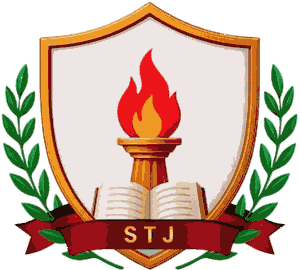
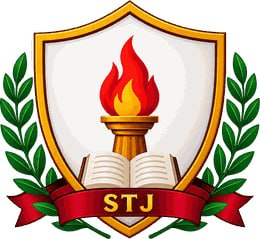
Nueva versión de la calculadora: cierre 2026-2, historial por periodo, overlay del ponderado y escudo STJ

diff --git a/index.html b/index.html
@@ -45,10 +45,7 @@ button{font-family:inherit;cursor:pointer}
 .hero-grid{display:grid;gap:26px;position:relative;z-index:1}
 .crest{display:flex;align-items:center;gap:14px}
 .crest-img{position:relative;width:92px;flex-shrink:0}
-.crest-img::before{ /* luz de la antorcha detrás del escudo */
-  content:"";position:absolute;left:50%;top:44%;width:190%;aspect-ratio:1;transform:translate(-50%,-50%);
-  background:radial-gradient(circle, rgba(255,178,36,.34) 0%, rgba(212,151,60,.12) 38%, transparent 66%);pointer-events:none}
-.crest-img img{position:relative;width:100%;height:auto;display:block;filter:drop-shadow(0 8px 18px rgba(0,0,0,.35))}
+.crest-img img{position:relative;width:100%;height:auto;display:block;filter:drop-shadow(0 6px 14px rgba(0,0,0,.28))}
 .crest-txt{font-size:14px;line-height:1.3;color:rgba(255,255,255,.78)}
 .crest-txt b{display:block;color:#fff;font-size:16px;font-weight:700}
 .crest-txt i{display:block;width:44px;height:3px;border-radius:2px;background:linear-gradient(90deg,var(--oro),var(--cinta));margin-top:8px}
@@ -316,17 +313,24 @@ footer{background:var(--palma-dk);color:rgba(255,255,255,.8);margin-top:56px;pad
 }
 /* ================= ESCRITORIO ================= */
 @media (min-width:960px){
-  .hero{padding:40px 0 72px}
-  .hero::after{content:"";position:absolute;left:-180px;top:-200px;width:620px;height:620px;border-radius:50%;
-    background:radial-gradient(circle, rgba(255,178,36,.10), transparent 62%);pointer-events:none}
-  .hero-grid{grid-template-columns:1.05fr 1fr;gap:56px;align-items:start}
-  .crest-img{width:150px}
+  .wrap{max-width:1240px}
+  .hero{padding:56px 0 64px}
+  .hero-grid{grid-template-columns:minmax(0,1fr) minmax(0,.92fr);gap:72px;align-items:center}
+  .crest{gap:18px}
+  .crest-img{width:120px}
   .crest-txt{font-size:15px}
-  .crest-txt b{font-size:17px}
-  h1{margin-top:28px}
+  .crest-txt b{font-size:18px}
+  h1{margin-top:30px;font-size:clamp(54px,5.4vw,76px)}
   .hero-copy .sub{font-size:19px}
   .hero-links{margin-top:30px}
-  .panel{padding:28px}
+  .panel{padding:28px 30px 26px}
+  /* en pantalla ancha: etiqueta, palanca y número en una sola fila */
+  .area{grid-template-columns:auto minmax(0,1fr) 76px;gap:0 20px;padding:9px 0}
+  .area label{grid-column:1;grid-row:1;width:11.5em;white-space:nowrap}
+  .area input[type=range]{grid-column:2;grid-row:1}
+  .area input[type=number]{grid-column:3;grid-row:1;height:44px;font-size:20px}
+  .scale{display:none}
+  .actions{margin-top:20px}
   #resultados{padding-top:56px}
   .prog-head{grid-template-columns:minmax(0,1.25fr) minmax(180px,1fr) 140px 20px;gap:22px;padding:16px 20px}
   .ruler{grid-column:auto;grid-row:auto}
@@ -359,7 +363,7 @@ footer{background:var(--palma-dk);color:rgba(255,255,255,.8);margin-top:56px;pad
   <div class="wrap hero-grid">
     <div class="hero-copy">
       <div class="crest">
-        <div class="crest-img"><img src="escudo-stj.png" width="320" height="288" alt="Escudo de la I. E. Santa Teresa de Jesús"></div>
+        <div class="crest-img"><img src="escudo-stj.png" width="260" height="239" alt="Escudo de la I. E. Santa Teresa de Jesús"></div>
         <p class="crest-txt"><b>I. E. Santa Teresa de Jesús</b>Área de Ciencias Sociales<i></i></p>
       </div>
       <h1>¿A qué carrera de la Uniquindío te alcanza tu ICFES?</h1>
@@ -520,7 +524,7 @@ footer{background:var(--palma-dk);color:rgba(255,255,255,.8);margin-top:56px;pad
   <img class="foot-mark" src="escudo-stj.png" alt="" aria-hidden="true">
   <div class="wrap foot">
     <div class="foot-crest">
-      <img src="escudo-stj.png" width="320" height="288" alt="Escudo de la I. E. Santa Teresa de Jesús">
+      <img src="escudo-stj.png" width="260" height="239" alt="Escudo de la I. E. Santa Teresa de Jesús">
       <p><b>Santa Teresa de Jesús</b>Institución Educativa, Área de Ciencias Sociales</p>
     </div>
     <div>
